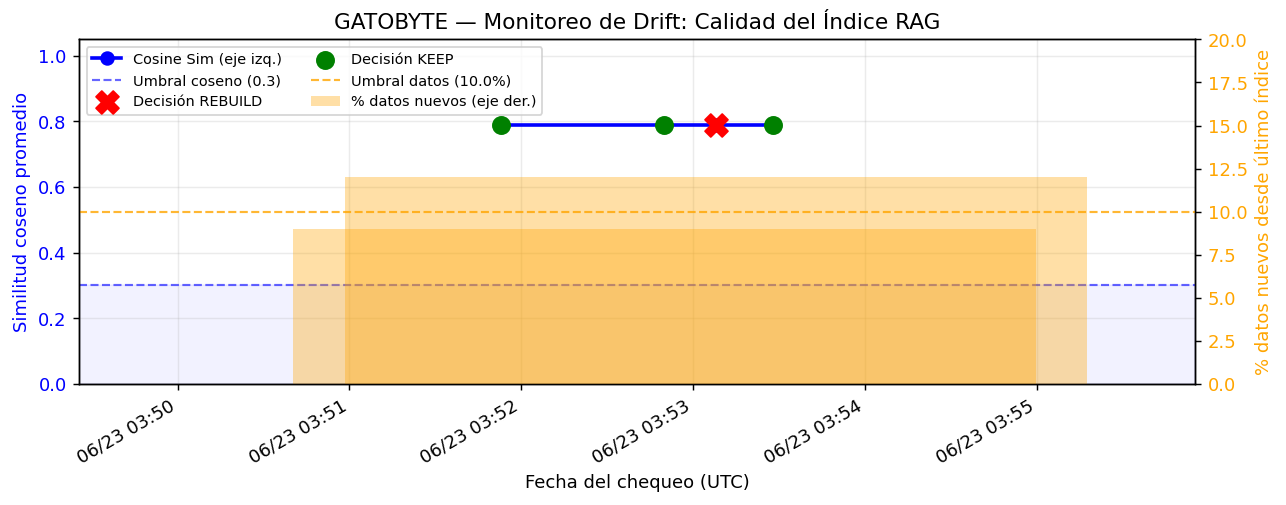
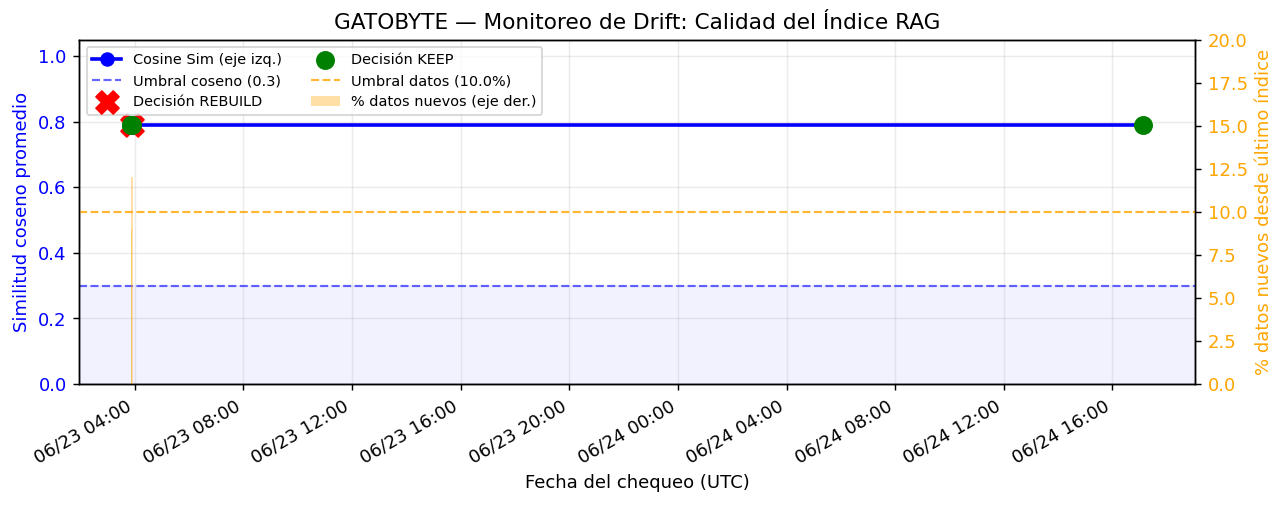
reports

diff --git a/reports/query_examples.md b/reports/query_examples.md
@@ -14,7 +14,7 @@
 | Precision@5 | **0.40** |
 | MRR | **0.50** |
 | Cosine Sim promedio | 0.6632 |
-| Latencia | 19.3 ms |
+| Latencia | 24.5 ms |
 
 ### Fragmentos recuperados
 
@@ -47,7 +47,7 @@
 | Precision@5 | **1.00** |
 | MRR | **1.00** |
 | Cosine Sim promedio | 0.7943 |
-| Latencia | 44.0 ms |
+| Latencia | 73.0 ms |
 
 ### Fragmentos recuperados
 
@@ -80,7 +80,7 @@
 | Precision@5 | **0.80** |
 | MRR | **1.00** |
 | Cosine Sim promedio | 0.6534 |
-| Latencia | 17.9 ms |
+| Latencia | 20.0 ms |
 
 ### Fragmentos recuperados
 
@@ -113,7 +113,7 @@
 | Precision@5 | **0.60** |
 | MRR | **1.00** |
 | Cosine Sim promedio | 0.7446 |
-| Latencia | 22.0 ms |
+| Latencia | 20.0 ms |
 
 ### Fragmentos recuperados
 
@@ -121,7 +121,7 @@
 
 > Handy to have and easy to set up and use
 
-**[2]** Similitud: `0.7552` (Alta) | Rating: 4.0 ★ | Sentiment: `positive` | Categoría: `Amazon Devices` | ASIN: `B075X8471B`
+**[2]** Similitud: `0.7551` (Alta) | Rating: 4.0 ★ | Sentiment: `positive` | Categoría: `Amazon Devices` | ASIN: `B075X8471B`
 
 > Is very easy to use once it is set up
 
@@ -146,7 +146,7 @@
 | Precision@5 | **1.00** |
 | MRR | **1.00** |
 | Cosine Sim promedio | 0.6295 |
-| Latencia | 16.1 ms |
+| Latencia | 19.4 ms |
 
 ### Fragmentos recuperados
 
@@ -179,7 +179,7 @@
 | Precision@5 | **0.80** |
 | MRR | **1.00** |
 | Cosine Sim promedio | 0.7740 |
-| Latencia | 16.2 ms |
+| Latencia | 19.6 ms |
 
 ### Fragmentos recuperados
 
@@ -212,7 +212,7 @@
 | Precision@5 | **1.00** |
 | MRR | **1.00** |
 | Cosine Sim promedio | 0.7253 |
-| Latencia | 16.7 ms |
+| Latencia | 19.4 ms |
 
 ### Fragmentos recuperados
 